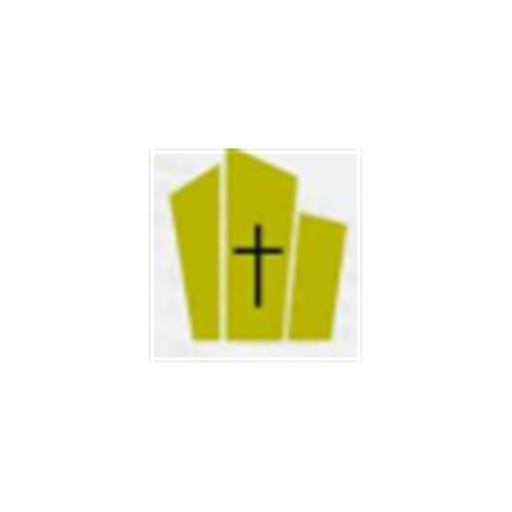
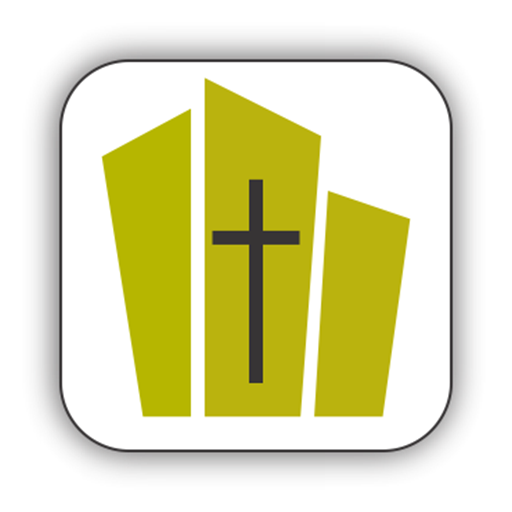
Add files via upload

diff --git a/styles.css b/styles.css
@@ -117,8 +117,8 @@ body {
 }
 
 .church-logo-image {
-    width: 46px;
-    height: 46px;
+    width: 64px;
+    height: 64px;
     object-fit: contain;
     flex: 0 0 auto;
 }
@@ -256,6 +256,8 @@ body {
     justify-content: center;
     position: relative;
 }
+
+/* splash overlay removed; PWA splash handled via manifest/icons */
 
 .hero::after {
     content: '';
@@ -2071,8 +2073,8 @@ body.photo-modal-open {
     }
 
     .church-logo-image {
-        width: 38px;
-        height: 38px;
+        width: 48px;
+        height: 48px;
     }
 
     .church-name {

diff --git a/index.html b/index.html
@@ -12,13 +12,14 @@
     <meta name="apple-mobile-web-app-title" content="TMC">
     <link rel="icon" type="image/png" sizes="192x192" href="icon-192.png">
     <link rel="apple-touch-icon" sizes="180x180" href="icon-180.png">
+    <link rel="apple-touch-icon" sizes="180x180" href="LOGO TMC.png">
 </head>
 <body>
     <!-- Navigation Bar -->
     <nav class="navbar">
         <div class="nav-container">
             <div class="nav-logo">
-                <img src="logo.png" alt="The Metropolitan Church logo" class="church-logo-image">
+                <img src="LOGO TMC.png" alt="The Metropolitan Church logo" class="church-logo-image">
                 <div class="brand-text">
                     <span class="church-name">The Metropolitan Church, Ibadan</span>
                     <span class="church-motto">Equipping The Saints, edifying the Church.</span>

diff --git a/believer-details.html b/believer-details.html
@@ -10,7 +10,7 @@
     <nav class="navbar">
         <div class="nav-container">
             <div class="nav-logo">
-                <img src="logo.png" alt="The Metropolitan Church logo" class="church-logo-image">
+                <img src="LOGO TMC.png" alt="The Metropolitan Church logo" class="church-logo-image">
                 <div class="brand-text">
                     <span class="church-name">The Metropolitan Church, Ibadan</span>
                     <span class="church-motto">Equipping The Saints, edifying the Church.</span>

diff --git a/believer-login.html b/believer-login.html
@@ -10,7 +10,7 @@
     <nav class="navbar">
         <div class="nav-container">
             <div class="nav-logo">
-                <img src="logo.png" alt="The Metropolitan Church logo" class="church-logo-image">
+                <img src="LOGO TMC.png" alt="The Metropolitan Church logo" class="church-logo-image">
                 <div class="brand-text">
                     <span class="church-name">The Metropolitan Church, Ibadan</span>
                     <span class="church-motto">Equipping The Saints, edifying the Church.</span>

diff --git a/contact.html b/contact.html
@@ -10,7 +10,7 @@
     <nav class="navbar">
         <div class="nav-container">
             <div class="nav-logo">
-                <img src="logo.png" alt="The Metropolitan Church logo" class="church-logo-image">
+                <img src="LOGO TMC.png" alt="The Metropolitan Church logo" class="church-logo-image">
                 <div class="brand-text">
                     <span class="church-name">The Metropolitan Church, Ibadan</span>
                     <span class="church-motto">Equipping The Saints, edifying the Church.</span>

diff --git a/ebooks.html b/ebooks.html
@@ -10,7 +10,7 @@
     <nav class="navbar">
         <div class="nav-container">
             <div class="nav-logo">
-                <img src="logo.png" alt="The Metropolitan Church logo" class="church-logo-image">
+                <img src="LOGO TMC.png" alt="The Metropolitan Church logo" class="church-logo-image">
                 <div class="brand-text">
                     <span class="church-name">The Metropolitan Church, Ibadan</span>
                     <span class="church-motto">Equipping The Saints, edifying the Church.</span>

diff --git a/links.html b/links.html
@@ -10,7 +10,7 @@
     <nav class="navbar">
         <div class="nav-container">
             <div class="nav-logo">
-                <img src="logo.png" alt="The Metropolitan Church logo" class="church-logo-image">
+                <img src="LOGO TMC.png" alt="The Metropolitan Church logo" class="church-logo-image">
                 <div class="brand-text">
                     <span class="church-name">The Metropolitan Church, Ibadan</span>
                     <span class="church-motto">Equipping The Saints, edifying the Church.</span>

diff --git a/photos.html b/photos.html
@@ -10,7 +10,7 @@
     <nav class="navbar">
         <div class="nav-container">
             <div class="nav-logo">
-                <img src="logo.png" alt="The Metropolitan Church logo" class="church-logo-image">
+                <img src="LOGO TMC.png" alt="The Metropolitan Church logo" class="church-logo-image">
                 <div class="brand-text">
                     <span class="church-name">The Metropolitan Church, Ibadan</span>
                     <span class="church-motto">Equipping The Saints, edifying the Church.</span>

diff --git a/radio.html b/radio.html
@@ -10,7 +10,7 @@
     <nav class="navbar">
         <div class="nav-container">
             <div class="nav-logo">
-                <img src="logo.png" alt="The Metropolitan Church logo" class="church-logo-image">
+                <img src="LOGO TMC.png" alt="The Metropolitan Church logo" class="church-logo-image">
                 <div class="brand-text">
                     <span class="church-name">The Metropolitan Church, Ibadan</span>
                     <span class="church-motto">Equipping The Saints, edifying the Church.</span>

diff --git a/script.js b/script.js
@@ -195,6 +195,8 @@ if (photoModal) {
             closePhotoModal();
         }
     });
+
+    
 }
 
 // ============================================

diff --git a/service-worker.js b/service-worker.js
@@ -4,7 +4,7 @@ const ASSETS_TO_CACHE = [
   '/index.html',
   '/styles.css',
   '/script.js',
-  '/logo.png',
+  '/LOGO TMC.png',
   '/icon-180.png',
   '/icon-192.png',
   '/icon-512.png',

diff --git a/songs.html b/songs.html
@@ -10,7 +10,7 @@
     <nav class="navbar">
         <div class="nav-container">
             <div class="nav-logo">
-                <img src="logo.png" alt="The Metropolitan Church logo" class="church-logo-image">
+                <img src="LOGO TMC.png" alt="The Metropolitan Church logo" class="church-logo-image">
                 <div class="brand-text">
                     <span class="church-name">The Metropolitan Church, Ibadan</span>
                     <span class="church-motto">Equipping The Saints, edifying the Church.</span>